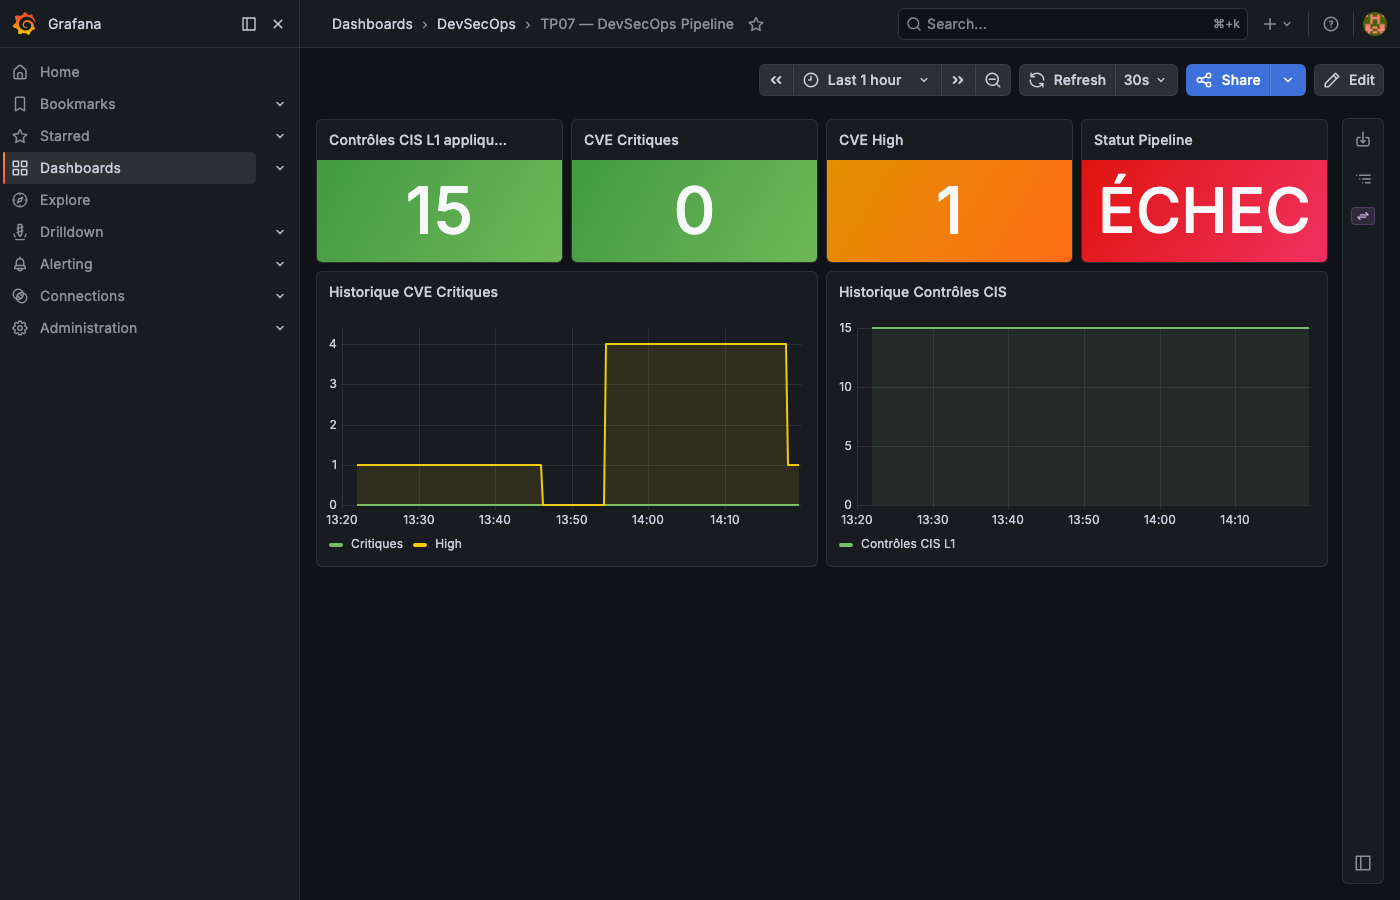
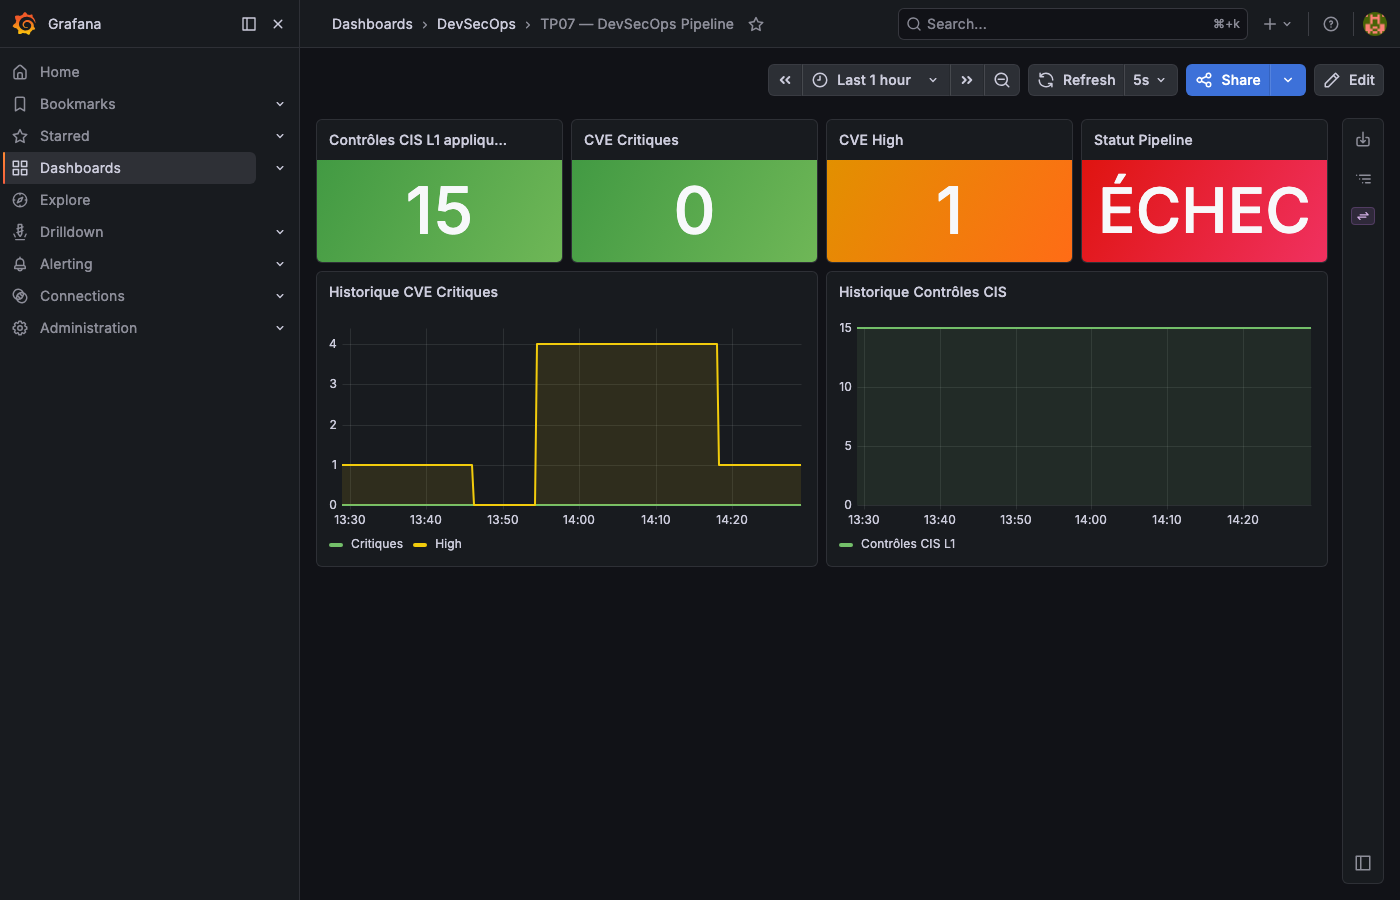
docs: screenshot Grafana dashboard avec données réelles Trivy

diff --git a/screenshots/auto-screenshots.js b/screenshots/auto-screenshots.js
@@ -71,8 +71,8 @@ async function shot(page, filename, description) {
   await page.waitForTimeout(2500);
   await shot(page, '17b_grafana_dashboards_liste.png', 'Grafana dashboards');
 
-  await page.goto('http://localhost:3000/d/tp07-devsecops/tp07-e28094-devsecops-pipeline');
-  await page.waitForTimeout(5000);
+  await page.goto('http://localhost:3000/d/tp07-devsecops/tp07-e28094-devsecops-pipeline?kiosk=tv&refresh=5s');
+  await page.waitForTimeout(8000);
   await shot(page, '17_grafana_dashboard.png', 'Dashboard TP07 DevSecOps');
 
   await browser.close();